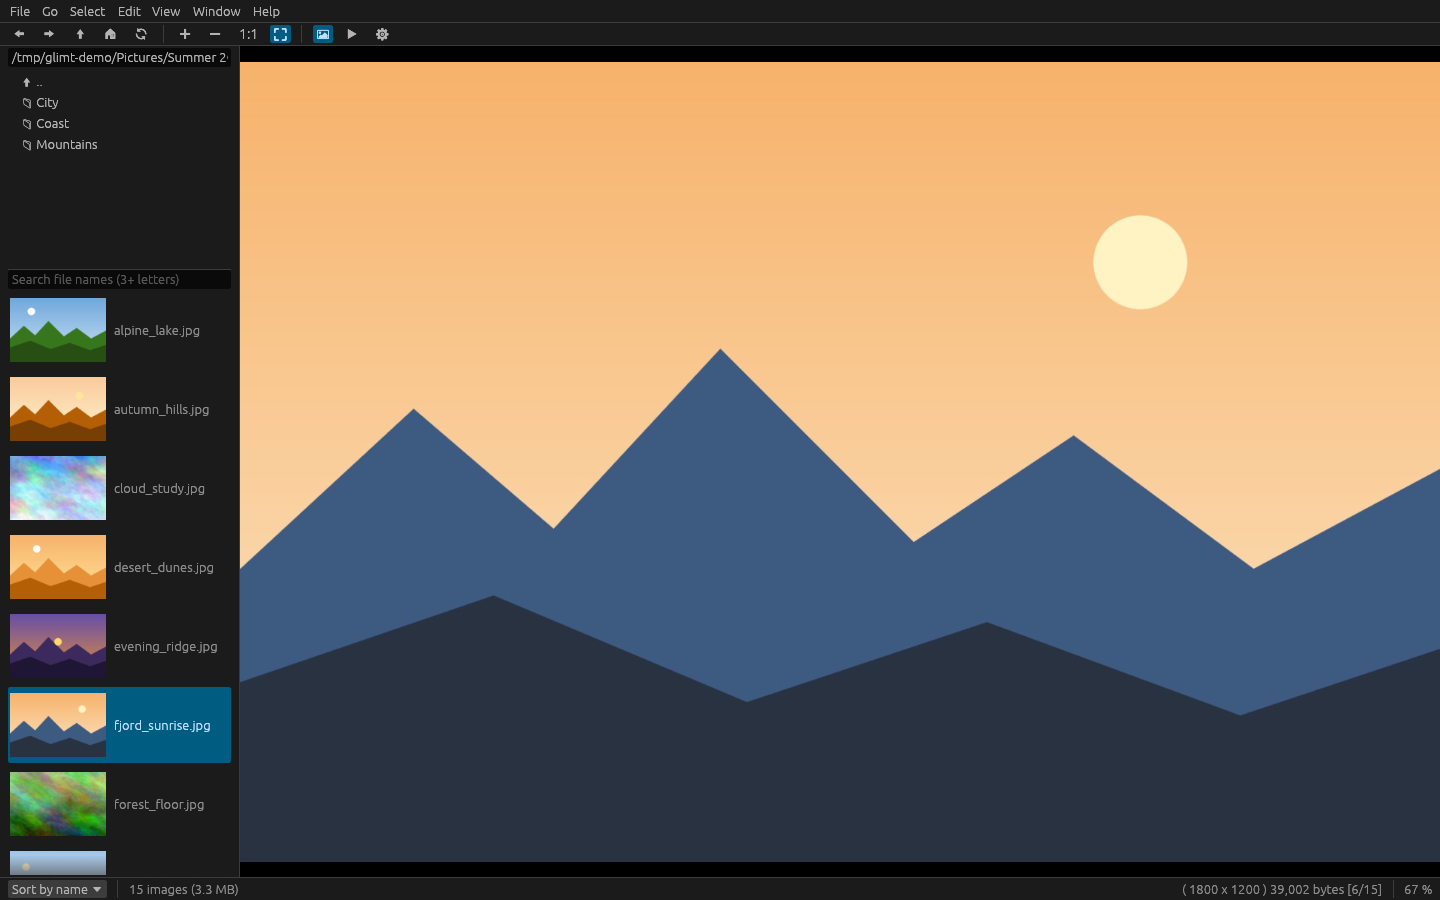
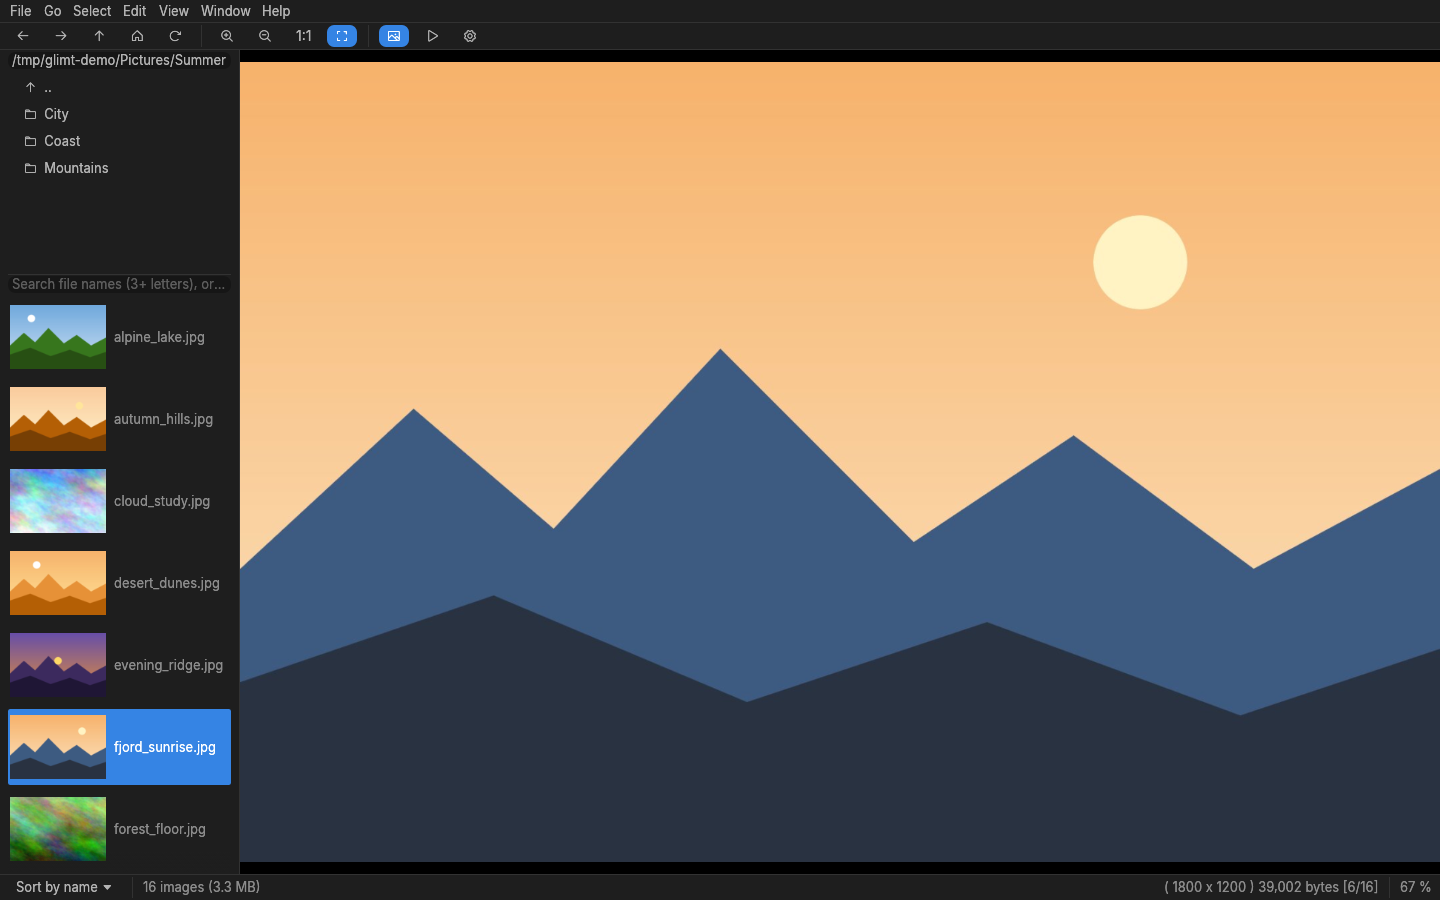
README: new screenshots with the 0.11 look
Main view, a 2x2 layout, Find Duplicates, the EXIF panel, fuzzy search,
pan view in the Light theme and the keyboard map, all with generated
pictures. The sort menu screenshot is gone.

Changed region(s): [[0.0, 0.28, 1.0, 1.0], [0.0, 0.0, 1.0, 0.0933], [0.0312, 0.1244, 0.0625, 0.2178]]

diff --git a/README.md b/README.md
@@ -41,10 +41,12 @@ The images in the screenshots are generated for the purpose.
 
 | | |
 |---|---|
+| ![Four images at once, with their names](docs/screenshots/layout.png) | ![Find Duplicates by similarity](docs/screenshots/duplicates.png) |
+| Layout 2×2 (View → Layout), with the file names shown | Find Duplicates (D) by similarity, also in subfolders |
 | ![File size and date columns, and the EXIF panel](docs/screenshots/exif-and-columns.png) | ![Fuzzy file name search](docs/screenshots/fuzzy-search.png) |
 | File size and date columns, and the EXIF panel (Ctrl+K) | Fuzzy search: "sun" finds sunflower and sunrise, and also de**s**ert_d**un**es |
-| ![The sort menu](docs/screenshots/sort-menu.png) | ![Keyboard map](docs/screenshots/keyboard-map.png) |
-| The sort menu in the status bar | Help → Keyboard Map |
+| ![Pan view in the Light theme](docs/screenshots/pan.png) | ![Keyboard map](docs/screenshots/keyboard-map.png) |
+| Pan view (Ctrl+J), here in the Light theme | Help → Keyboard Map |
 
 ## Features
 
